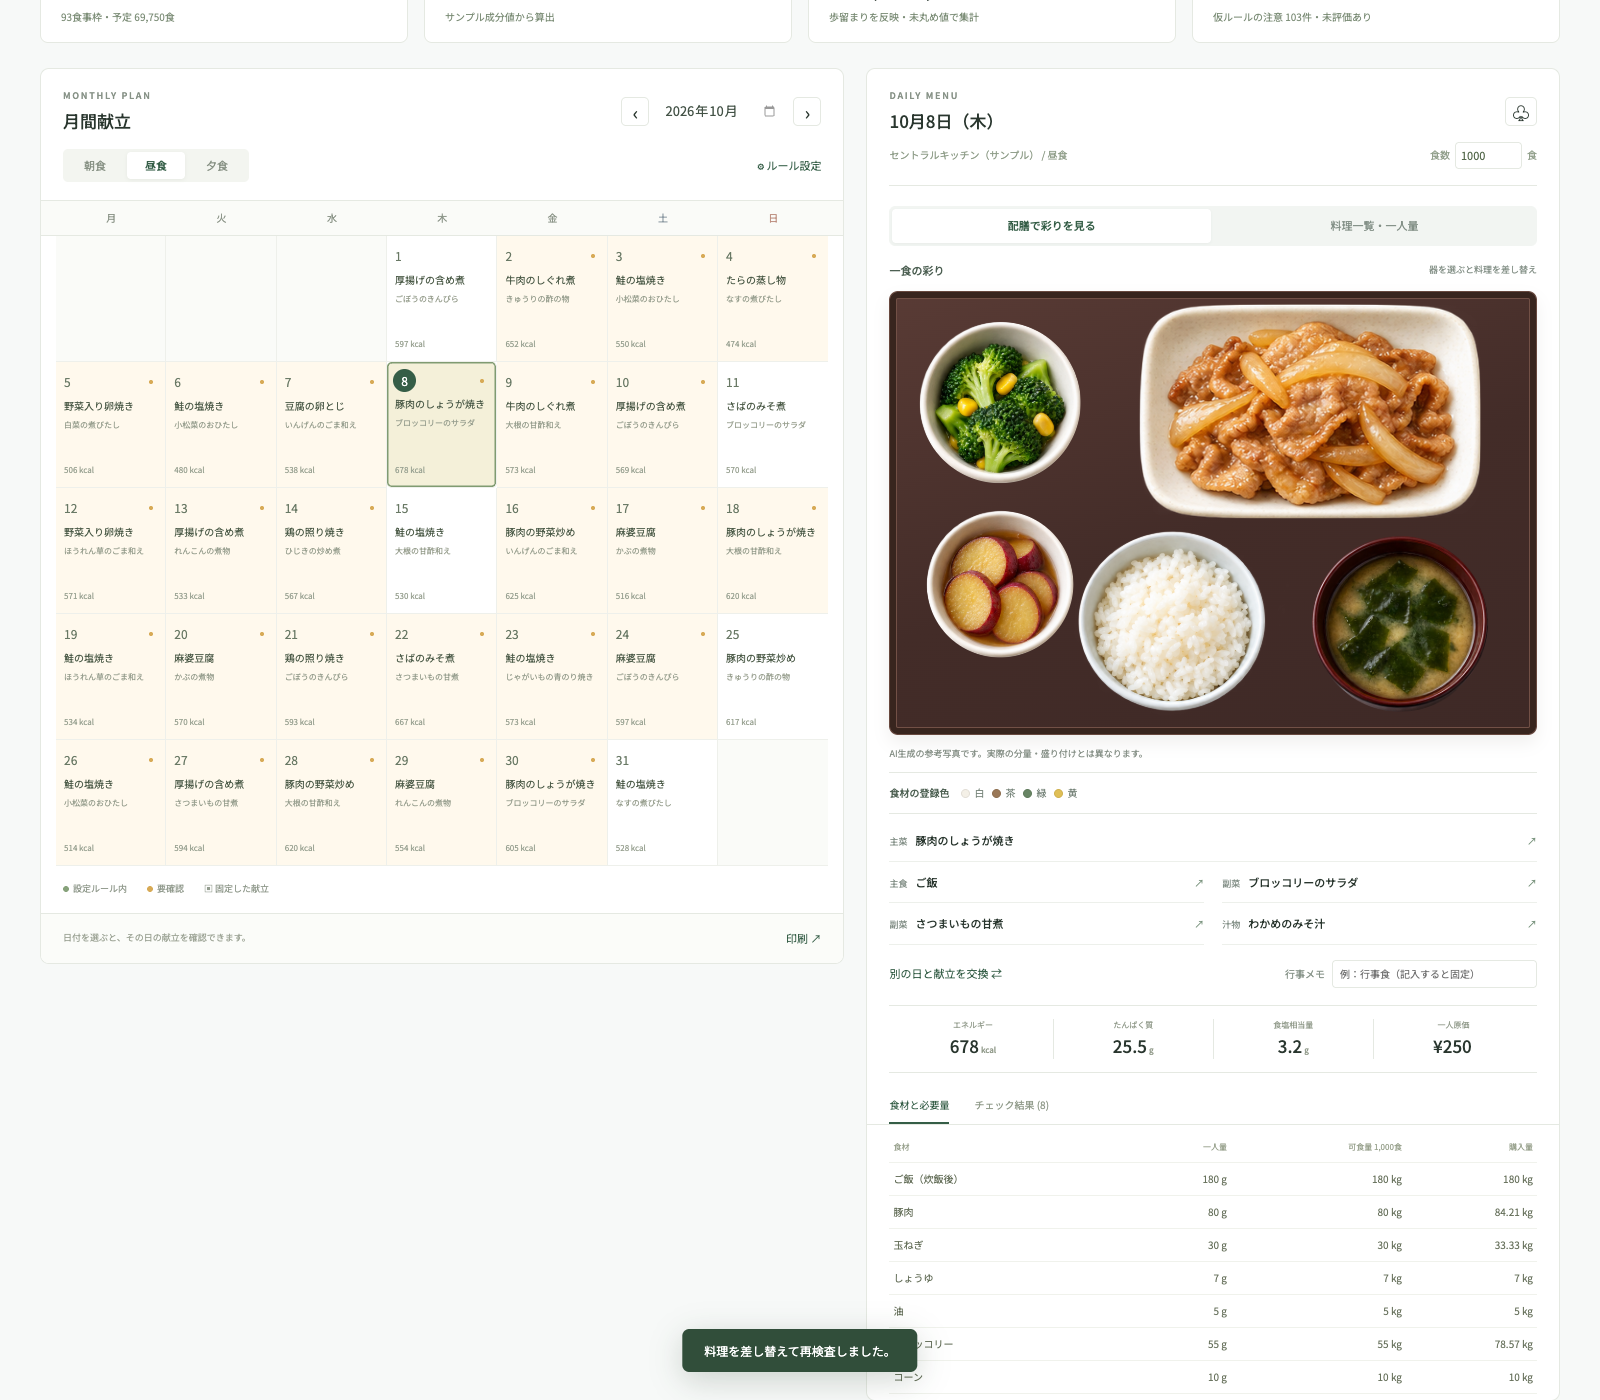
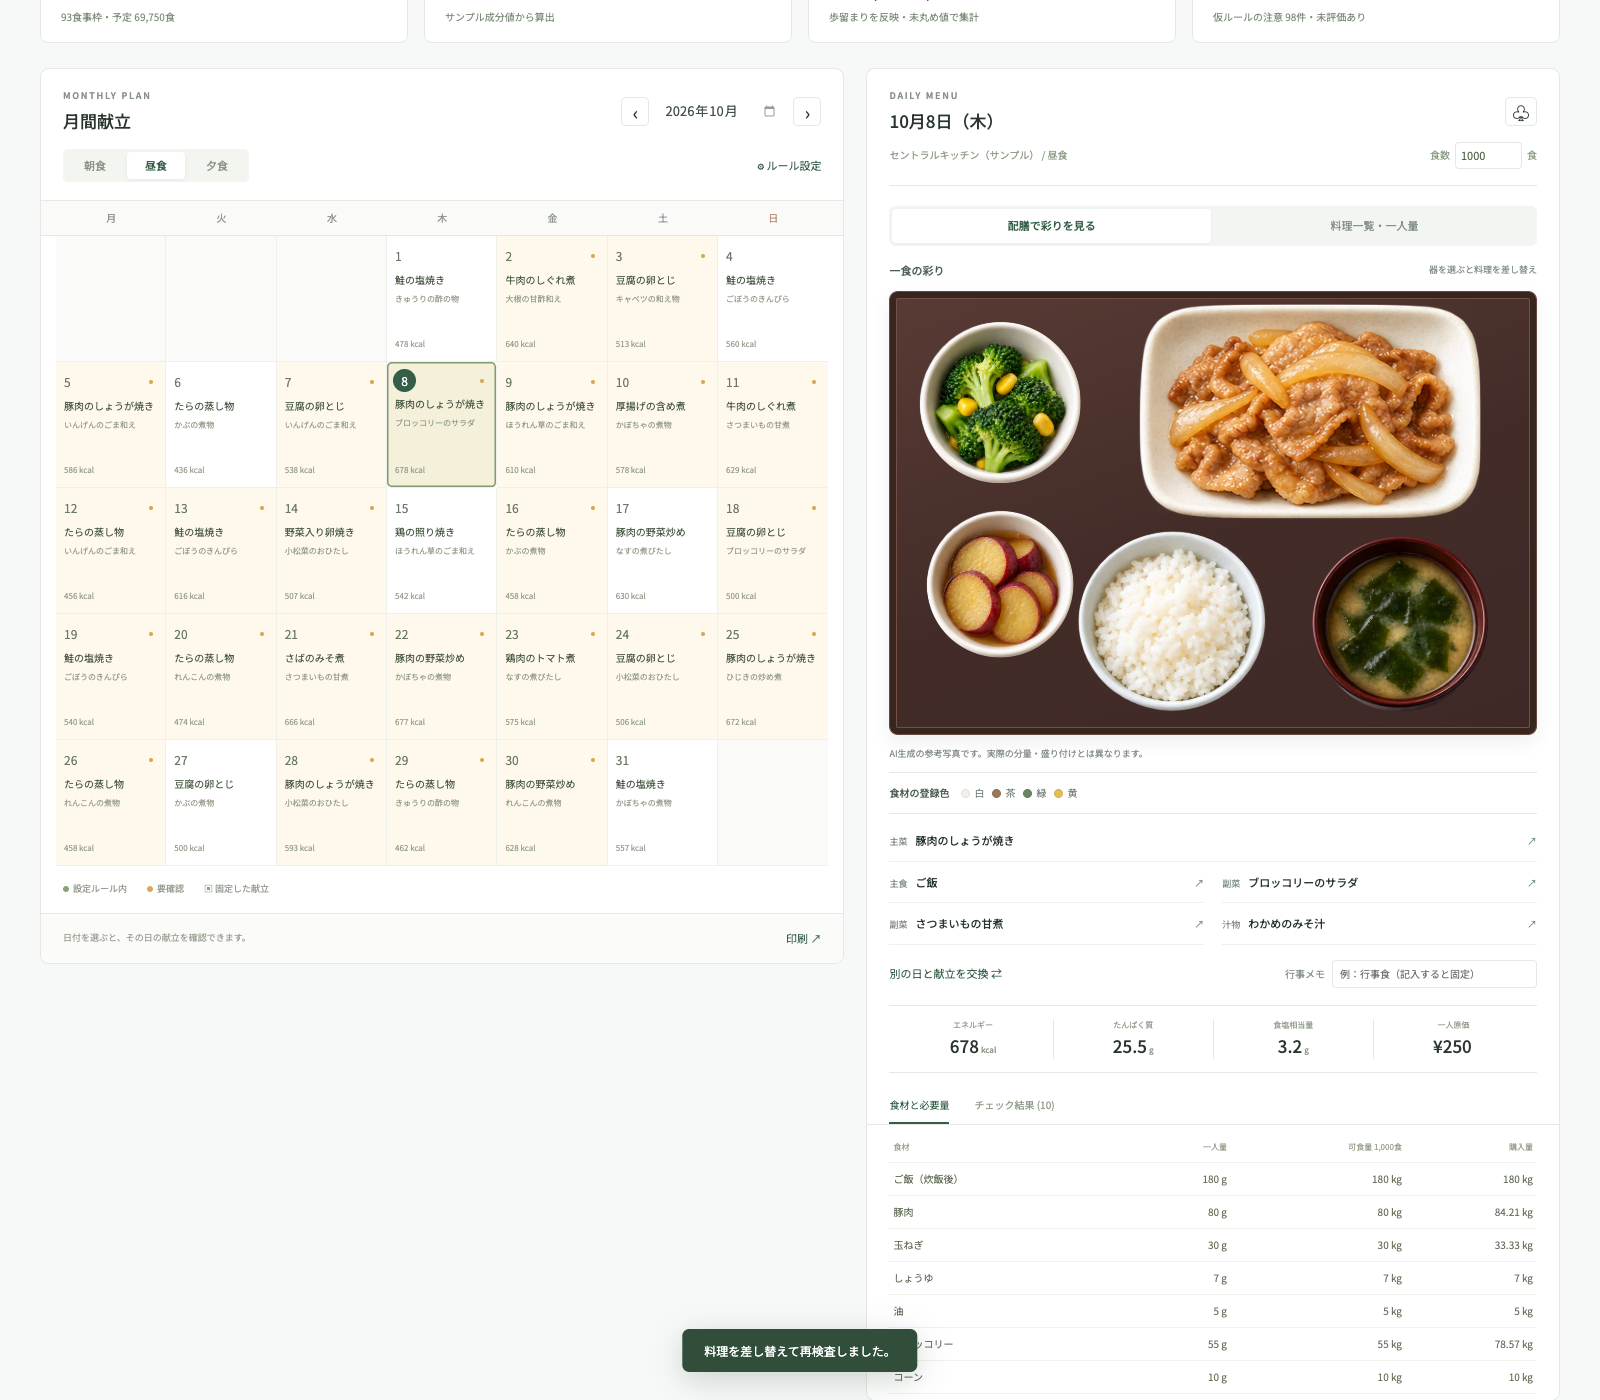
Match clear tofu soup preview to registered ingredients

diff --git a/demos/kondate-studio/photos.js b/demos/kondate-studio/photos.js
@@ -1,2 +1,2 @@
 /* AI reference photography keyed by recipe ID. Crop viewports keep only each vessel. */
-window.DEMO_DATA.recipePhotos={"rice":{"file":"assets/plated-food-v1.png","index":0,"columns":3,"rows":2,"naturalWidth":1536,"naturalHeight":1024},"salmon-grill":{"file":"assets/plated-food-v1.png","index":1,"columns":3,"rows":2,"naturalWidth":1536,"naturalHeight":1024},"spinach-sesame":{"file":"assets/plated-food-v1.png","index":2,"columns":3,"rows":2,"naturalWidth":1536,"naturalHeight":1024},"tofu-soup":{"file":"assets/plated-food-v1.png","index":3,"columns":3,"rows":2,"naturalWidth":1536,"naturalHeight":1024},"chicken-teri":{"file":"assets/plated-food-v1.png","index":4,"columns":3,"rows":2,"naturalWidth":1536,"naturalHeight":1024},"pumpkin-simmer":{"file":"assets/plated-food-v1.png","index":5,"columns":3,"rows":2,"naturalWidth":1536,"naturalHeight":1024},"pork-ginger":{"file":"assets/recipe-photos-a.png","index":0,"columns":3,"rows":3,"naturalWidth":1254,"naturalHeight":1254,"crop":[28,144,390,264],"shape":"rect"},"beef-simmer":{"file":"assets/recipe-photos-a.png","index":1,"columns":3,"rows":3,"naturalWidth":1254,"naturalHeight":1254,"crop":[434,143,387,266],"shape":"rect"},"saba-miso":{"file":"assets/recipe-photos-a.png","index":2,"columns":3,"rows":3,"naturalWidth":1254,"naturalHeight":1254,"crop":[838,144,390,265],"shape":"rect"},"cod-steam":{"file":"assets/recipe-photos-a.png","index":3,"columns":3,"rows":3,"naturalWidth":1254,"naturalHeight":1254,"crop":[28,494,390,267],"shape":"rect"},"omelet":{"file":"assets/recipe-photos-a.png","index":4,"columns":3,"rows":3,"naturalWidth":1254,"naturalHeight":1254,"crop":[431,497,390,263],"shape":"rect"},"mapo":{"file":"assets/recipe-photos-a.png","index":5,"columns":3,"rows":3,"naturalWidth":1254,"naturalHeight":1254,"crop":[837,493,392,268],"shape":"rect"},"atsuage-simmer":{"file":"assets/recipe-photos-a.png","index":6,"columns":3,"rows":3,"naturalWidth":1254,"naturalHeight":1254,"crop":[27,848,391,267],"shape":"rect"},"chicken-tomato":{"file":"assets/recipe-photos-a.png","index":7,"columns":3,"rows":3,"naturalWidth":1254,"naturalHeight":1254,"crop":[432,848,389,268],"shape":"rect"},"pork-fry":{"file":"assets/recipe-photos-a.png","index":8,"columns":3,"rows":3,"naturalWidth":1254,"naturalHeight":1254,"crop":[836,849,392,266],"shape":"rect"},"egg-tofu":{"file":"assets/recipe-photos-b.png","index":0,"columns":3,"rows":3,"naturalWidth":1254,"naturalHeight":1254,"crop":[23,102,404,257],"shape":"rect"},"cabbage-salad":{"file":"assets/recipe-photos-b.png","index":1,"columns":3,"rows":3,"naturalWidth":1254,"naturalHeight":1254,"crop":[457,41,340,332],"shape":"round"},"hakusai-simmer":{"file":"assets/recipe-photos-b.png","index":2,"columns":3,"rows":3,"naturalWidth":1254,"naturalHeight":1254,"crop":[872,40,345,333],"shape":"round"},"potato-roast":{"file":"assets/recipe-photos-b.png","index":3,"columns":3,"rows":3,"naturalWidth":1254,"naturalHeight":1254,"crop":[38,448,344,328],"shape":"round"},"daikon-pickle":{"file":"assets/recipe-photos-b.png","index":4,"columns":3,"rows":3,"naturalWidth":1254,"naturalHeight":1254,"crop":[457,449,337,328],"shape":"round"},"broccoli":{"file":"assets/recipe-photos-b.png","index":5,"columns":3,"rows":3,"naturalWidth":1254,"naturalHeight":1254,"crop":[873,448,343,327],"shape":"round"},"sweetpotato":{"file":"assets/recipe-photos-b.png","index":6,"columns":3,"rows":3,"naturalWidth":1254,"naturalHeight":1254,"crop":[37,848,346,336],"shape":"round"},"cucumber":{"file":"assets/recipe-photos-b.png","index":7,"columns":3,"rows":3,"naturalWidth":1254,"naturalHeight":1254,"crop":[457,847,337,335],"shape":"round"},"eggplant":{"file":"assets/recipe-photos-b.png","index":8,"columns":3,"rows":3,"naturalWidth":1254,"naturalHeight":1254,"crop":[870,846,346,337],"shape":"round"},"kinpira":{"file":"assets/recipe-photos-c.png","index":0,"columns":3,"rows":3,"naturalWidth":1254,"naturalHeight":1254,"crop":[34,21,359,354],"shape":"round"},"lotus":{"file":"assets/recipe-photos-c.png","index":1,"columns":3,"rows":3,"naturalWidth":1254,"naturalHeight":1254,"crop":[447,22,359,354],"shape":"round"},"hijiki":{"file":"assets/recipe-photos-c.png","index":2,"columns":3,"rows":3,"naturalWidth":1254,"naturalHeight":1254,"crop":[862,21,361,354],"shape":"round"},"komatsuna":{"file":"assets/recipe-photos-c.png","index":3,"columns":3,"rows":3,"naturalWidth":1254,"naturalHeight":1254,"crop":[34,427,360,354],"shape":"round"},"radish":{"file":"assets/recipe-photos-c.png","index":4,"columns":3,"rows":3,"naturalWidth":1254,"naturalHeight":1254,"crop":[449,427,357,356],"shape":"round"},"peas":{"file":"assets/recipe-photos-c.png","index":5,"columns":3,"rows":3,"naturalWidth":1254,"naturalHeight":1254,"crop":[866,428,357,354],"shape":"round"},"wakame-soup":{"file":"assets/recipe-photos-c.png","index":6,"columns":3,"rows":3,"naturalWidth":1254,"naturalHeight":1254,"crop":[29,812,367,372],"shape":"round"},"daikon-soup":{"file":"assets/recipe-photos-c.png","index":7,"columns":3,"rows":3,"naturalWidth":1254,"naturalHeight":1254,"crop":[441,812,368,372],"shape":"round"},"mushroom-soup":{"file":"assets/recipe-photos-c.png","index":8,"columns":3,"rows":3,"naturalWidth":1254,"naturalHeight":1254,"crop":[856,811,367,373],"shape":"round"},"potato-soup":{"file":"assets/recipe-photos-d.png","index":0,"columns":3,"rows":2,"naturalWidth":1536,"naturalHeight":1024},"hakusai-soup":{"file":"assets/recipe-photos-d.png","index":1,"columns":3,"rows":2,"naturalWidth":1536,"naturalHeight":1024},"corn-soup":{"file":"assets/recipe-photos-d.png","index":2,"columns":3,"rows":2,"naturalWidth":1536,"naturalHeight":1024},"radish-soup":{"file":"assets/recipe-photos-d.png","index":3,"columns":3,"rows":2,"naturalWidth":1536,"naturalHeight":1024}};
+window.DEMO_DATA.recipePhotos={"rice":{"file":"assets/plated-food-v1.png","index":0,"columns":3,"rows":2,"naturalWidth":1536,"naturalHeight":1024},"salmon-grill":{"file":"assets/plated-food-v1.png","index":1,"columns":3,"rows":2,"naturalWidth":1536,"naturalHeight":1024},"spinach-sesame":{"file":"assets/plated-food-v1.png","index":2,"columns":3,"rows":2,"naturalWidth":1536,"naturalHeight":1024},"tofu-soup":{"file":"assets/tofu-soup-v2.png","index":0,"columns":1,"rows":1,"naturalWidth":1254,"naturalHeight":1254,"crop":[66,53,1114,1127],"shape":"round"},"chicken-teri":{"file":"assets/plated-food-v1.png","index":4,"columns":3,"rows":2,"naturalWidth":1536,"naturalHeight":1024},"pumpkin-simmer":{"file":"assets/plated-food-v1.png","index":5,"columns":3,"rows":2,"naturalWidth":1536,"naturalHeight":1024},"pork-ginger":{"file":"assets/recipe-photos-a.png","index":0,"columns":3,"rows":3,"naturalWidth":1254,"naturalHeight":1254,"crop":[28,144,390,264],"shape":"rect"},"beef-simmer":{"file":"assets/recipe-photos-a.png","index":1,"columns":3,"rows":3,"naturalWidth":1254,"naturalHeight":1254,"crop":[434,143,387,266],"shape":"rect"},"saba-miso":{"file":"assets/recipe-photos-a.png","index":2,"columns":3,"rows":3,"naturalWidth":1254,"naturalHeight":1254,"crop":[838,144,390,265],"shape":"rect"},"cod-steam":{"file":"assets/recipe-photos-a.png","index":3,"columns":3,"rows":3,"naturalWidth":1254,"naturalHeight":1254,"crop":[28,494,390,267],"shape":"rect"},"omelet":{"file":"assets/recipe-photos-a.png","index":4,"columns":3,"rows":3,"naturalWidth":1254,"naturalHeight":1254,"crop":[431,497,390,263],"shape":"rect"},"mapo":{"file":"assets/recipe-photos-a.png","index":5,"columns":3,"rows":3,"naturalWidth":1254,"naturalHeight":1254,"crop":[837,493,392,268],"shape":"rect"},"atsuage-simmer":{"file":"assets/recipe-photos-a.png","index":6,"columns":3,"rows":3,"naturalWidth":1254,"naturalHeight":1254,"crop":[27,848,391,267],"shape":"rect"},"chicken-tomato":{"file":"assets/recipe-photos-a.png","index":7,"columns":3,"rows":3,"naturalWidth":1254,"naturalHeight":1254,"crop":[432,848,389,268],"shape":"rect"},"pork-fry":{"file":"assets/recipe-photos-a.png","index":8,"columns":3,"rows":3,"naturalWidth":1254,"naturalHeight":1254,"crop":[836,849,392,266],"shape":"rect"},"egg-tofu":{"file":"assets/recipe-photos-b.png","index":0,"columns":3,"rows":3,"naturalWidth":1254,"naturalHeight":1254,"crop":[23,102,404,257],"shape":"rect"},"cabbage-salad":{"file":"assets/recipe-photos-b.png","index":1,"columns":3,"rows":3,"naturalWidth":1254,"naturalHeight":1254,"crop":[457,41,340,332],"shape":"round"},"hakusai-simmer":{"file":"assets/recipe-photos-b.png","index":2,"columns":3,"rows":3,"naturalWidth":1254,"naturalHeight":1254,"crop":[872,40,345,333],"shape":"round"},"potato-roast":{"file":"assets/recipe-photos-b.png","index":3,"columns":3,"rows":3,"naturalWidth":1254,"naturalHeight":1254,"crop":[38,448,344,328],"shape":"round"},"daikon-pickle":{"file":"assets/recipe-photos-b.png","index":4,"columns":3,"rows":3,"naturalWidth":1254,"naturalHeight":1254,"crop":[457,449,337,328],"shape":"round"},"broccoli":{"file":"assets/recipe-photos-b.png","index":5,"columns":3,"rows":3,"naturalWidth":1254,"naturalHeight":1254,"crop":[873,448,343,327],"shape":"round"},"sweetpotato":{"file":"assets/recipe-photos-b.png","index":6,"columns":3,"rows":3,"naturalWidth":1254,"naturalHeight":1254,"crop":[37,848,346,336],"shape":"round"},"cucumber":{"file":"assets/recipe-photos-b.png","index":7,"columns":3,"rows":3,"naturalWidth":1254,"naturalHeight":1254,"crop":[457,847,337,335],"shape":"round"},"eggplant":{"file":"assets/recipe-photos-b.png","index":8,"columns":3,"rows":3,"naturalWidth":1254,"naturalHeight":1254,"crop":[870,846,346,337],"shape":"round"},"kinpira":{"file":"assets/recipe-photos-c.png","index":0,"columns":3,"rows":3,"naturalWidth":1254,"naturalHeight":1254,"crop":[34,21,359,354],"shape":"round"},"lotus":{"file":"assets/recipe-photos-c.png","index":1,"columns":3,"rows":3,"naturalWidth":1254,"naturalHeight":1254,"crop":[447,22,359,354],"shape":"round"},"hijiki":{"file":"assets/recipe-photos-c.png","index":2,"columns":3,"rows":3,"naturalWidth":1254,"naturalHeight":1254,"crop":[862,21,361,354],"shape":"round"},"komatsuna":{"file":"assets/recipe-photos-c.png","index":3,"columns":3,"rows":3,"naturalWidth":1254,"naturalHeight":1254,"crop":[34,427,360,354],"shape":"round"},"radish":{"file":"assets/recipe-photos-c.png","index":4,"columns":3,"rows":3,"naturalWidth":1254,"naturalHeight":1254,"crop":[449,427,357,356],"shape":"round"},"peas":{"file":"assets/recipe-photos-c.png","index":5,"columns":3,"rows":3,"naturalWidth":1254,"naturalHeight":1254,"crop":[866,428,357,354],"shape":"round"},"wakame-soup":{"file":"assets/recipe-photos-c.png","index":6,"columns":3,"rows":3,"naturalWidth":1254,"naturalHeight":1254,"crop":[29,812,367,372],"shape":"round"},"daikon-soup":{"file":"assets/recipe-photos-c.png","index":7,"columns":3,"rows":3,"naturalWidth":1254,"naturalHeight":1254,"crop":[441,812,368,372],"shape":"round"},"mushroom-soup":{"file":"assets/recipe-photos-c.png","index":8,"columns":3,"rows":3,"naturalWidth":1254,"naturalHeight":1254,"crop":[856,811,367,373],"shape":"round"},"potato-soup":{"file":"assets/recipe-photos-d.png","index":0,"columns":3,"rows":2,"naturalWidth":1536,"naturalHeight":1024},"hakusai-soup":{"file":"assets/recipe-photos-d.png","index":1,"columns":3,"rows":2,"naturalWidth":1536,"naturalHeight":1024},"corn-soup":{"file":"assets/recipe-photos-d.png","index":2,"columns":3,"rows":2,"naturalWidth":1536,"naturalHeight":1024},"radish-soup":{"file":"assets/recipe-photos-d.png","index":3,"columns":3,"rows":2,"naturalWidth":1536,"naturalHeight":1024}};
